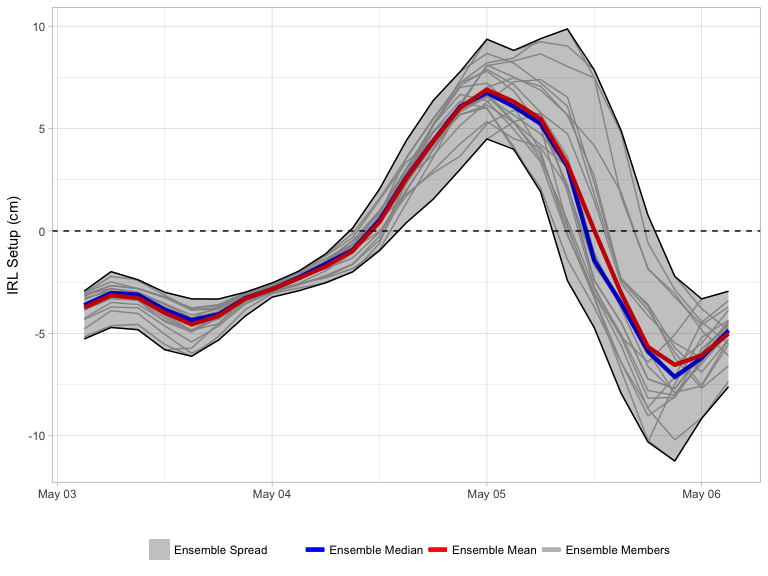
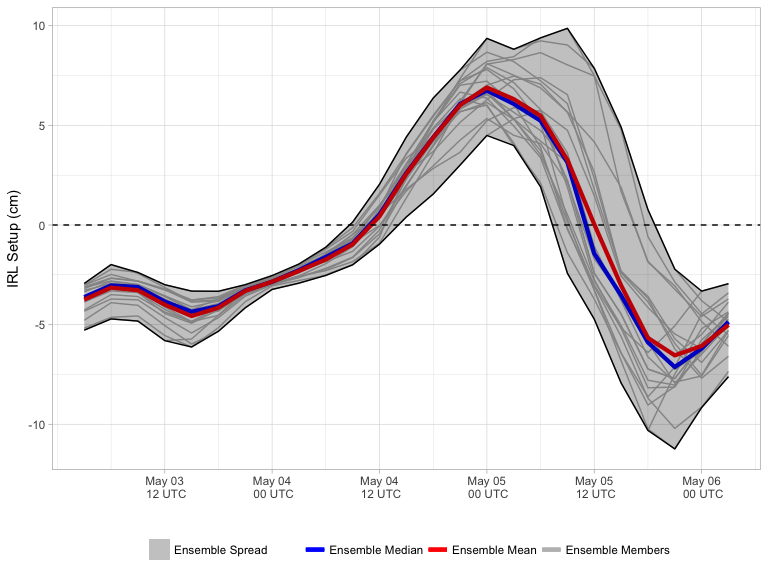
Changed x-axis tick marks on current forecast plot

Changed region(s): [[0.0, 0.0312, 1.0, 0.875], [0.0312, 0.7188, 0.0625, 0.7812]]

diff --git a/docs/index.md b/docs/index.md
@@ -3,7 +3,7 @@ Current Forecast
 
 ![](img/raw_setup.png)
 
-> Forecast valid 2017-05-03 11:06:25.
+> Forecast valid 2017-05-03 11:54:28.
 
 About
 -----
